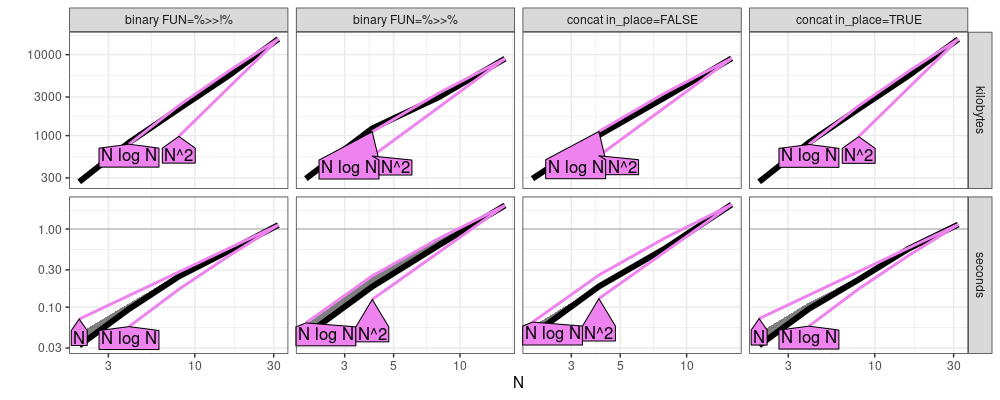
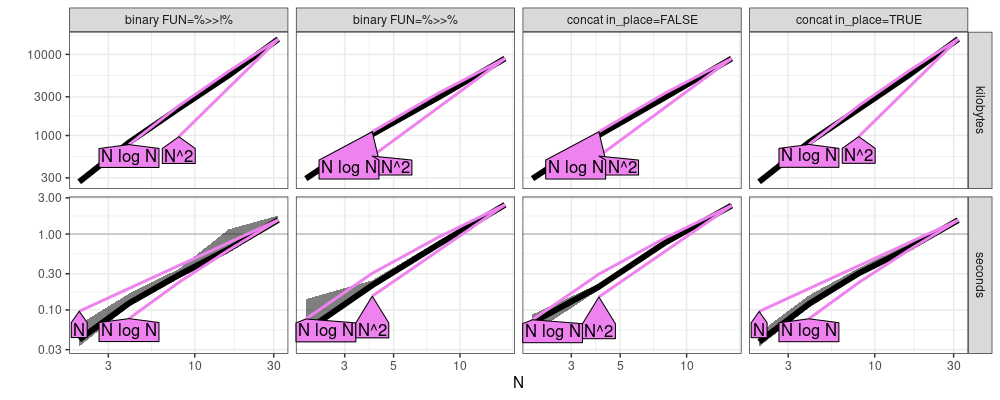
smaller fig

diff --git a/_posts/2025-02-19-linear-vs-quadratic-pipe-ops.md b/_posts/2025-02-19-linear-vs-quadratic-pipe-ops.md
@@ -180,15 +180,15 @@ atime_list <- atime::atime(
 ```
 
 ``` r
-plot(atime_list)
+plot(atime_list)+
+  ggplot2::scale_x_log10(
+    breaks=2^seq(1,5),
+    limits=c(2,100))
 ```
 
 ```
-## Le chargement a nécessité le package : ggplot2
-```
-
-```
-## Le chargement a nécessité le package : directlabels
+## Scale for x is already present.
+## Adding another scale for x, which will replace the existing scale.
 ```
 
 ![plot of chunk plot-atime](/assets/img/2025-02-19-linear-vs-quadratic-pipe-ops/plot-atime-1.png)
